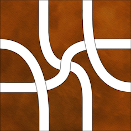
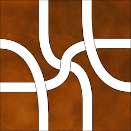
images rotations (soucis dans l'affichage)

diff --git a/src/tsuro/MainInterface.java b/src/tsuro/MainInterface.java
@@ -393,14 +393,18 @@ public class MainInterface extends javax.swing.JFrame {
 
     private void RotationCarte1ActionPerformed(java.awt.event.ActionEvent evt) {//GEN-FIRST:event_RotationCarte1ActionPerformed
         joueurCourant.TuileJ[0].RotationTuile();
+        CartesJoueur.repaint();
+        System.out.println("ok");
     }//GEN-LAST:event_RotationCarte1ActionPerformed
 
     private void RotationCarte2ActionPerformed(java.awt.event.ActionEvent evt) {//GEN-FIRST:event_RotationCarte2ActionPerformed
         joueurCourant.TuileJ[1].RotationTuile();
+        CartesJoueur.repaint();
     }//GEN-LAST:event_RotationCarte2ActionPerformed
 
     private void RotationCarte3ActionPerformed(java.awt.event.ActionEvent evt) {//GEN-FIRST:event_RotationCarte3ActionPerformed
         joueurCourant.TuileJ[2].RotationTuile();
+        CartesJoueur.repaint();
     }//GEN-LAST:event_RotationCarte3ActionPerformed
 
     /**
